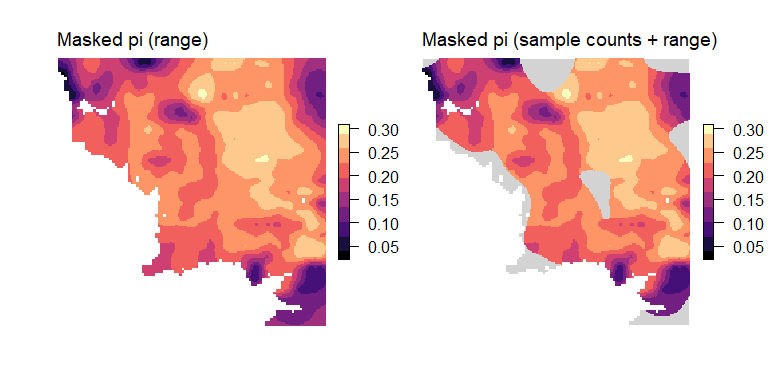
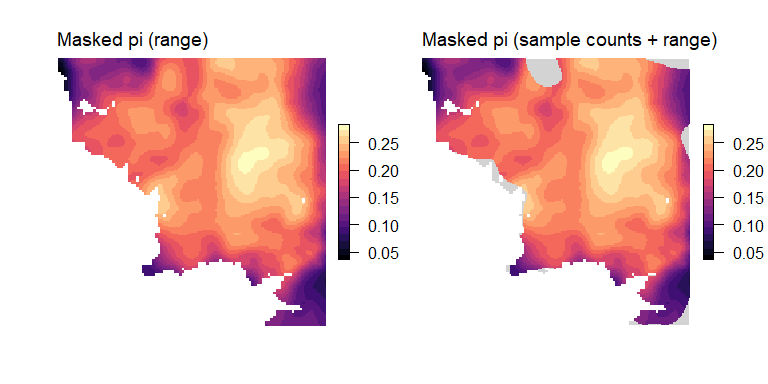
update README

Changed region(s): [[0.5312, 0.125, 1.0, 0.8438], [0.0625, 0.125, 0.5312, 0.875], [0.4688, 0.5, 0.5312, 0.5312]]

diff --git a/README.md b/README.md
@@ -14,7 +14,7 @@ MIT](https://img.shields.io/badge/license-MIT-blue)](https://img.shields.io/badg
 <!-- badges: end -->
 
 Generate continuous maps of genetic diversity using moving windows with
-options for rarefaction, kriging, and masking.
+options for rarefaction, interpolation, and masking.
 
 ## Installation
 
@@ -53,8 +53,8 @@ wgd <- window_gd(lotr_vcf,
           lotr_coords,
           lotr_lyr,
           stat = "pi",
-          wdim = 5,
-          fact = 4,
+          wdim = 7,
+          fact = 3,
           rarify = TRUE)
 
 # Use plot_gd() to plot the genetic diversity layer and plot_count() to plot the sample counts layer
@@ -87,7 +87,7 @@ undersampled.
 
 ``` r
 # Mask results that fall outside of the "range"
-mgd_lyr <- mask_gd(kgd, lotr_range, minval = 0.01)
+mgd_lyr <- mask_gd(kgd, lotr_range)
 
 # Further mask results in areas where the sample count was less than minval
 mgd_counts <- mask_gd(mgd_lyr, kgd_counts, minval = 2)
